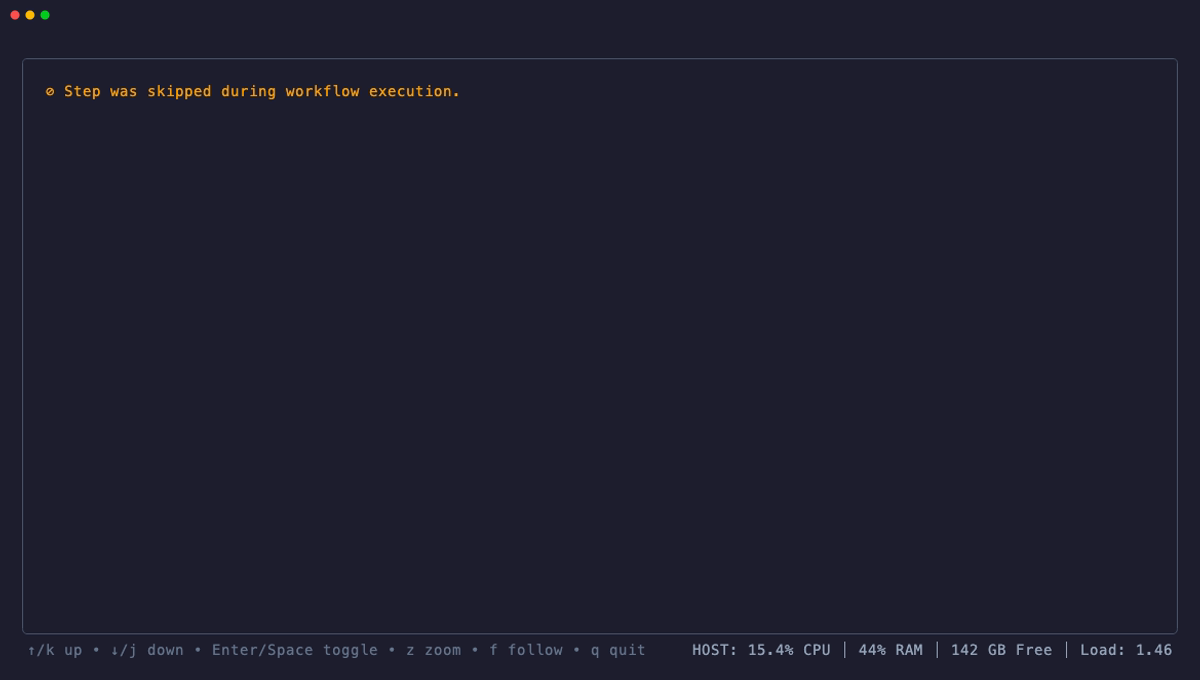
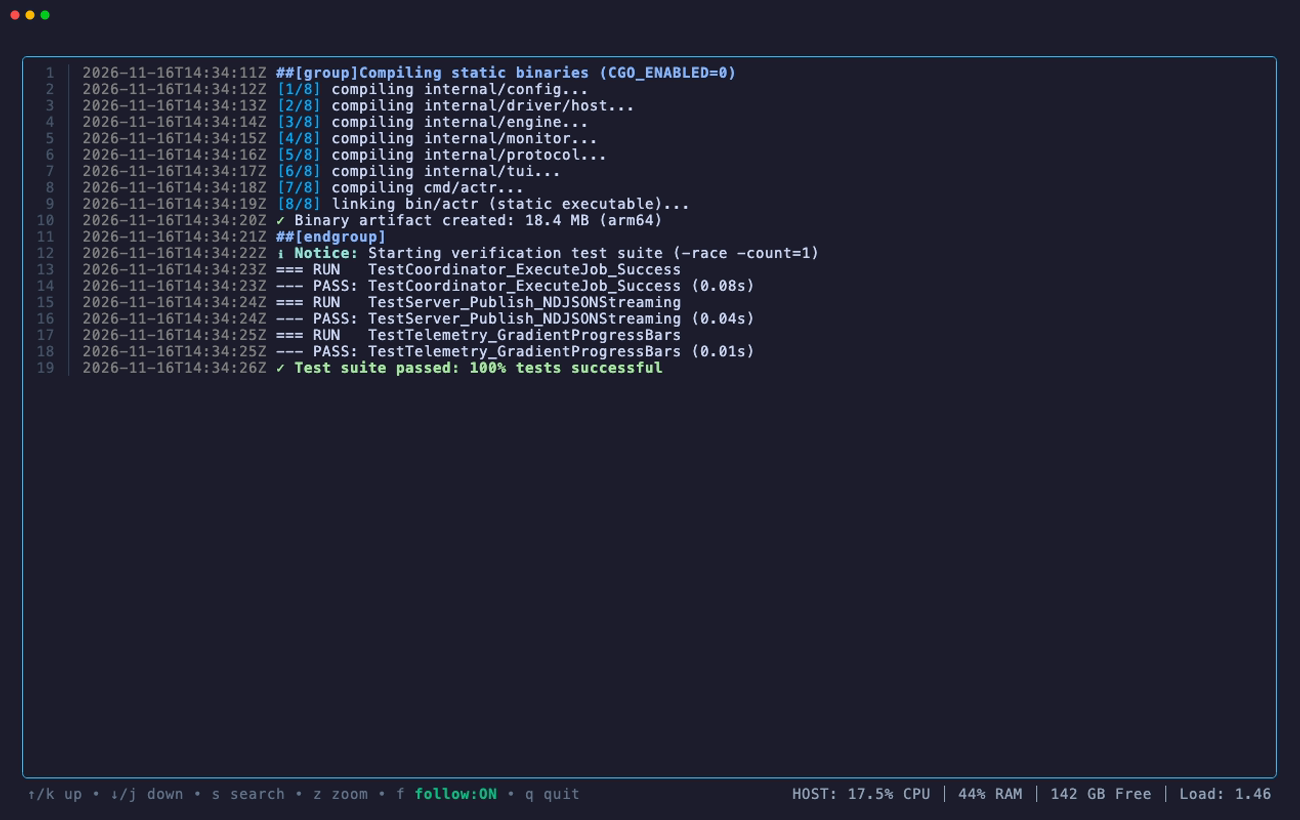
docs: update README with refreshed screenshots, tape, and telemetry docs

diff --git a/README.md b/README.md
@@ -36,7 +36,9 @@ actr doctor                # check prerequisites, git, node, and toolchain depen
 - **Single static binary** — 100% pure Go (`CGO_ENABLED=0`), zero CGO, zero external binary runtime dependencies.
 - **Bare-metal performance** — sub-25 MB idle RAM (vs 350+ MB for .NET CoreCLR); runs directly on native compilers without container overhead.
 - **Zero-click registration** — automatically detects repository URL from `git remote origin` and acquires runner tokens via `gh` CLI.
-- **Interactive TUI dashboard** — explorer tree (`Workflow` → `Job` → `Steps`), live CPU/RAM telemetry, streaming ANSI logs, and single-key zoom (`z`).
+- **Interactive TUI dashboard** — unified explorer tree (`Workflow` → `Job` → `Steps` + `Historical Runs`), live CPU/RAM/Net/Disk telemetry with expandable 4-graph Braille wave profiles (`e`), streaming ANSI logs, and single-key zoom (`z`).
+- **Real-time host vitals HUD** — persistent status bar monitoring host CPU, RAM, disk headroom, and dynamic I/O rates (`net rx/tx`, `disk write`).
+- **OpenTelemetry & metrics export** — stream live runner and host metrics directly to any OTLP collector (InfluxDB v3, Prometheus, Datadog, Grafana) via `--otel-endpoint`.
 - **Local run & log persistence** — automatically preserves past job metadata, duration, peak vitals (CPU/RSS), and full ANSI-colored step logs under `~/.actr/runs/`.
 - **Offline history browsing** — inspect historical runs anytime with `actr monitor` even when the daemon is stopped, with seamless background auto-reconnect when the runner starts.
 - **Decoupled daemon architecture** — background daemon runs headlessly; terminal monitor attaches/detaches over a Unix socket (`~/.actr/daemon.sock`) without interrupting jobs.
@@ -120,8 +122,13 @@ actr monitor --demo           # launch simulation showcasing live and historical
 |---|---|
 | `↑` / `k`, `↓` / `j` | Navigate items in the Explorer Tree |
 | `Enter` / `Space` | Expand or collapse tree node |
+| `e` | Expand / collapse 4-graph telemetry HUD (CPU, RAM, Net I/O, Disk Write) |
+| `s` | Filter & search Explorer Tree |
+| `Ctrl+F` / `/` | Search within active step logs |
+| `c` | Copy highlighted / active step logs to system clipboard |
 | `z` | Toggle 100% full-screen log zoom |
 | `f` | Toggle auto-follow (tail) active step logs |
+| `Tab` | Switch focus between Tree and Log Viewport |
 | `q` / `Ctrl+C` | Detach monitor (daemon keeps running) |
 
 ---
@@ -149,10 +156,15 @@ You can inspect past workflow runs and step logs even when the runner daemon is 
 actr monitor
 ```
 When `daemon.sock` is unreachable, `actr monitor` automatically launches in **Offline Mode** (`◉ OFFLINE (HISTORY)`):
-- Displays completed runs under `HISTORICAL RUNS` in the Explorer Tree.
-- Inspect peak vitals (peak CPU %, peak RSS RAM, network I/O, disk writes) and duration in the HUD.
+- Displays completed runs grouped by repository under `HISTORICAL RUNS` in the unified Explorer Tree.
+- Inspect peak vitals (peak CPU %, peak RSS RAM, total network I/O, disk writes) and duration in the HUD.
+- Press `e` to expand multi-phase historical Braille execution profiles (CPU, Memory, Network, Disk).
 - Step logs are retrieved directly from disk, preserving ANSI styling.
 - Seamless auto-reconnect: if the daemon starts in the background, the monitor connects automatically and transitions to live streaming.
+
+<p align="center">
+  <img src="docs/images/actr-monitor-historical.png" alt="actr Offline History & Past Run Profiles" width="850" />
+</p>
 
 To browse runs from a custom runs directory:
 ```bash
@@ -174,6 +186,32 @@ When either limit is exceeded after a job finishes, `actr` safely deletes the ol
 ### Crash Recovery
 
 If the daemon is killed (`SIGKILL`, reboot, power loss) mid-run, any job left in `running` status is automatically recovered and marked as `interrupted` upon the next daemon start or monitor boot.
+
+---
+
+## 📡 OpenTelemetry & Metrics Export
+
+Stream live runner execution and host vitals directly to any OpenTelemetry collector (InfluxDB v3, Prometheus, Datadog, Grafana Mimir, Jaeger):
+
+```bash
+# Push metrics via OTLP/HTTP to InfluxDB or local collector
+actr run --otel-endpoint http://localhost:4318
+
+# Push via gRPC with custom auth headers
+actr run --otel-endpoint localhost:4317 --otel-protocol grpc --otel-headers "Authorization=Bearer <token>"
+```
+
+### Exported Gauges
+| Metric | Description |
+|---|---|
+| `actr.step.cpu_percent` | Instantaneous CPU % consumed by the active step process group |
+| `actr.step.memory_rss_bytes` | Resident Set Size (RSS) memory consumption |
+| `actr.step.net_rx_rate_bytes_per_second` | Network receive throughput |
+| `actr.step.net_tx_rate_bytes_per_second` | Network transmit throughput |
+| `actr.step.disk_write_rate_bytes_per_second` | Step disk write I/O rate |
+| `actr.host.cpu_percent` | Total host machine CPU utilization |
+| `actr.host.memory_used_bytes` / `actr.host.memory_total_bytes` | Host RAM consumption & total capacity |
+| `actr.host.disk_used_bytes` / `actr.host.disk_total_bytes` | Host storage utilization & capacity |
 
 ---
 
